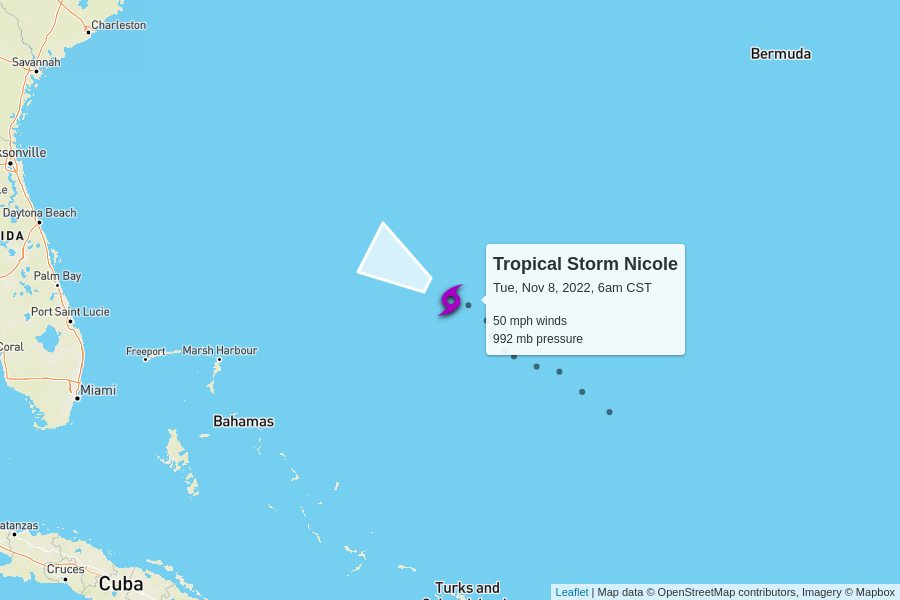
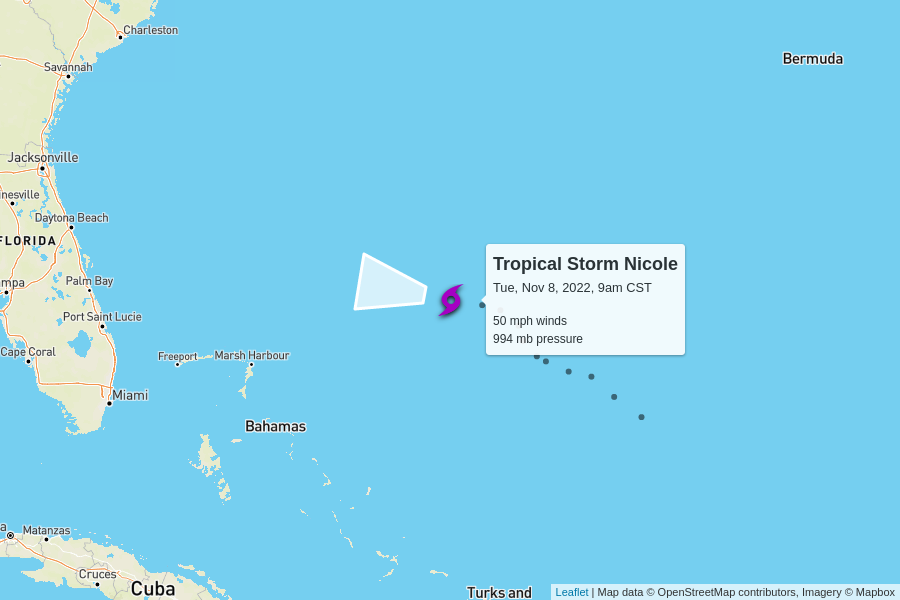
automatic update

diff --git a/docs/index.html b/docs/index.html
@@ -100,7 +100,7 @@
         <td colspan="6" class="storm category-0" >
           <h2>
             Tropical Storm Nicole
-            <p class="updated">last updated <span data-time>2022-11-08T12:00:00.000Z</span></p>
+            <p class="updated">last updated <span data-time>2022-11-08T15:00:00.000Z</span></p>
           </h2>
         </td>
       </tr>
@@ -116,11 +116,11 @@
       <tr>
         <td class="spacer"></td>
         <td>50 mph</td>
-        <td>992 mb</td>
+        <td>994 mb</td>
         <td>
-          8 mph to the west-northwest
+          9 mph to the west
           <br/>
-          <span style="display: inline-block; font-size: 1.5em; transform: rotate(300deg);">↑</span>
+          <span style="display: inline-block; font-size: 1.5em; transform: rotate(280deg);">↑</span>
         </td>
         <td><a href="https://raw.githubusercontent.com/mgwalker/atlantic-hurricanes/main/data/csv/AL172022.csv">AL172022.csv</a></td>
         <td><a href="https://www.nhc.noaa.gov/archive/2022/NICOLE.shtml?">NHC advisories</a></td>
